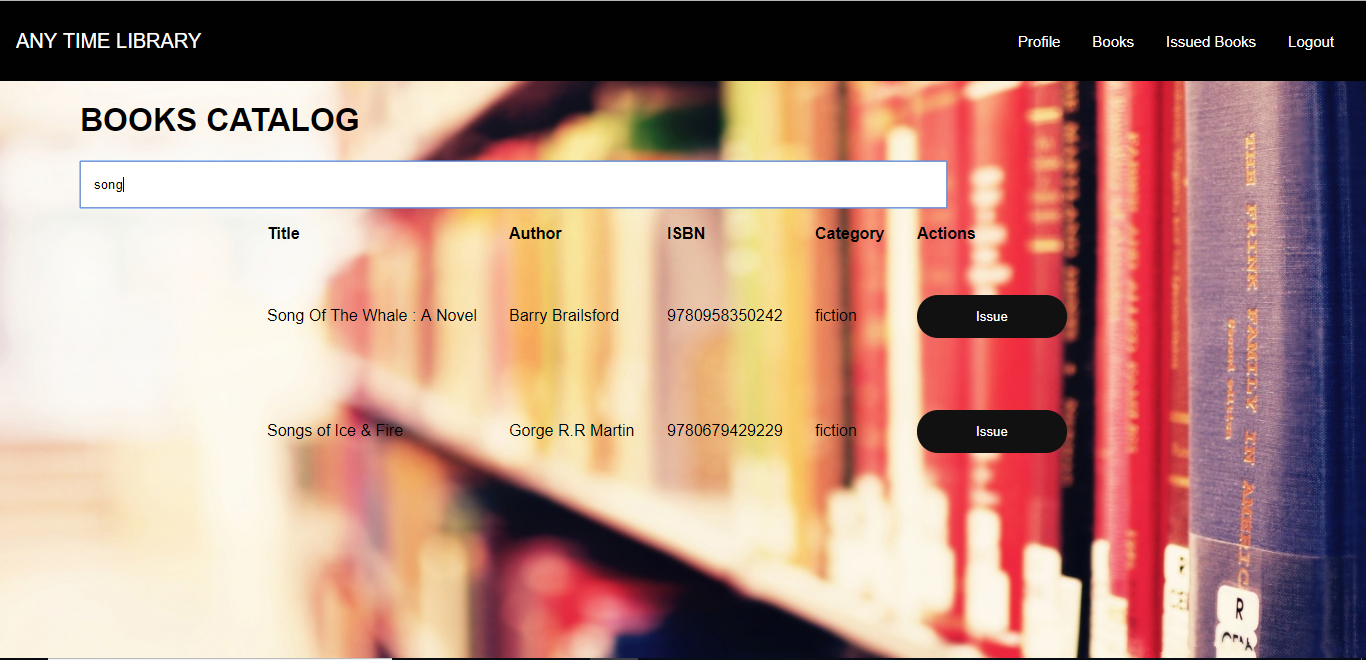
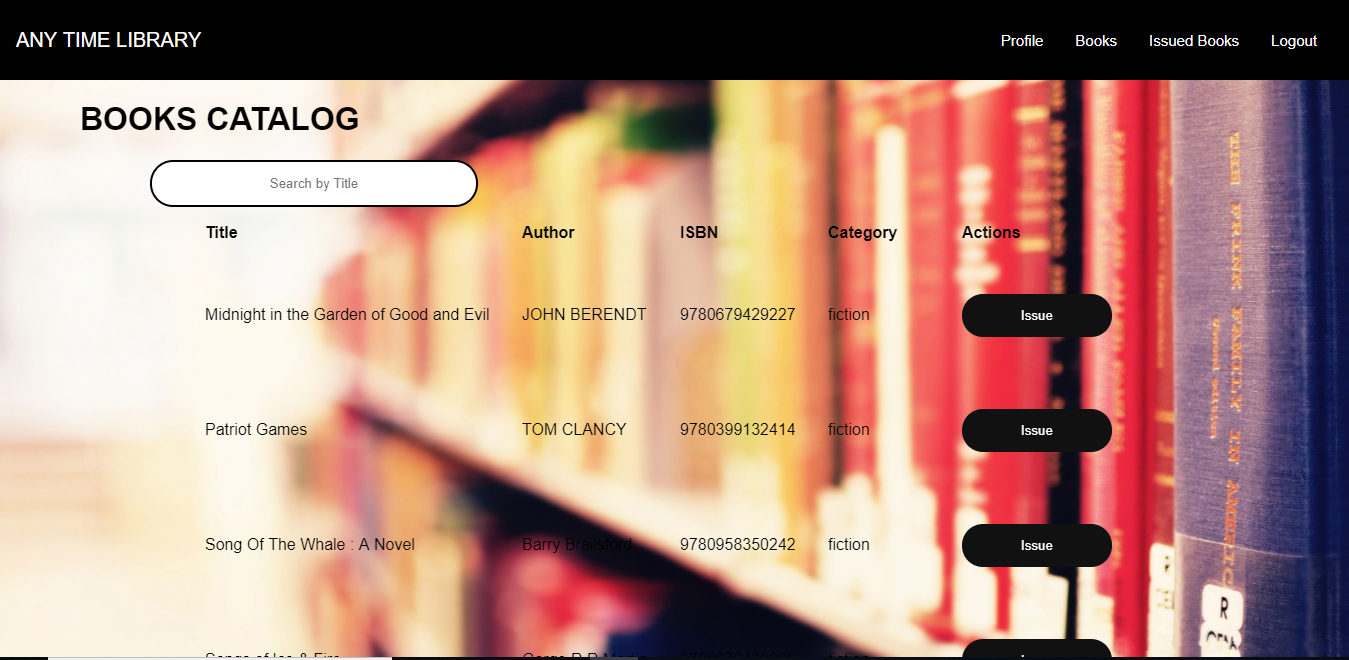
added searchbar css

diff --git a/src/containers/Library/Library.css b/src/containers/Library/Library.css
@@ -12,9 +12,13 @@
 }
 
 .searchbar input[type=text] {
-  left: 60px;
-  width: 230px;
-  padding: 14px 12px;
+    left: 96px;
+    margin-left: 70px;
+    width: 300px;
+    text-align: center;
+    padding: 14px 12px;
+    border-radius: 24px;
+    border: 2px solid;
   -webkit-transition: width 0.4s ease-in-out;
   transition: width 0.4s ease-in-out;
 }
